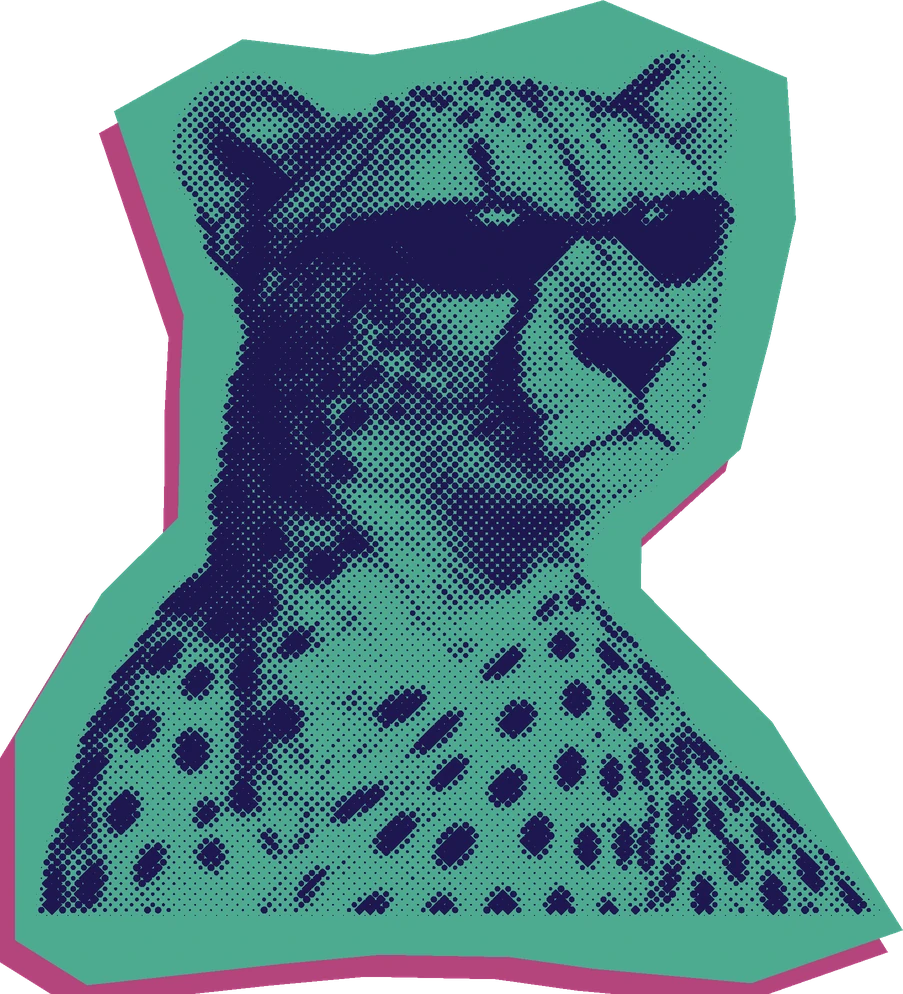
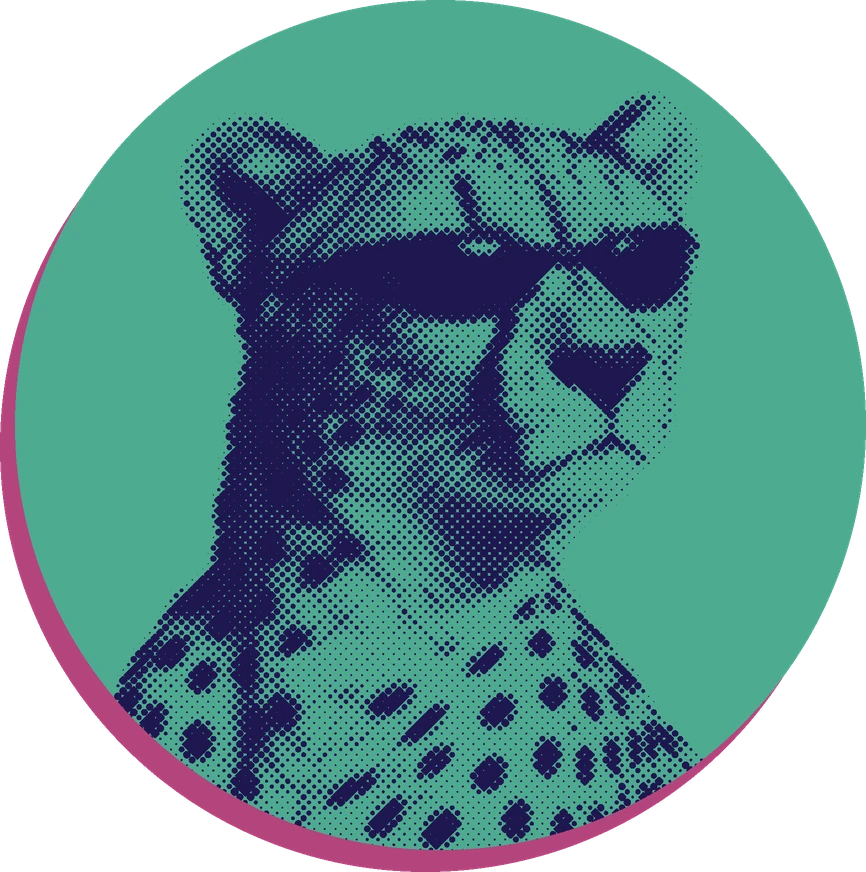
Home: owl and cheetah as busts inside circles
Claude-Session: https://claude.ai/code/session_01MTcdqzHdJmQRiYJx9Qictq

diff --git a/assets/home.css b/assets/home.css
@@ -93,14 +93,14 @@ html.is-home body {
 }
 .obj-owl {
   --dur: 11s; --delay: -3s;
-  right: 9%; top: 4%;
-  width: min(15vw, calc(29 * var(--vh)));
+  right: 7%; top: 6%;
+  width: min(21vw, calc(39 * var(--vh)));
 }
 .obj-cheetah {
   --dur: 10s; --delay: -6s;
   left: 50%; bottom: 12%;
   translate: -50% 0;
-  width: min(24vw, calc(46 * var(--vh)));
+  width: min(21vw, calc(40 * var(--vh)));
 }
 
 /* The four navigation pills */
@@ -126,7 +126,7 @@ html.is-home body {
   left: var(--edge);
   bottom: clamp(16px, 4vh, 44px);
   /* Keep the headline to the left of the middle object. */
-  width: calc(50% - min(12vw, 23vh) - var(--edge) - 2vw);
+  width: calc(50% - min(10.5vw, 20vh) - var(--edge) - 2vw);
   margin: 0;
 }
 
@@ -168,15 +168,15 @@ html.is-home body {
     width: min(56vw, calc(30 * var(--vh)));
   }
   .obj-owl {
-    right: 6%; top: 20%;
-    width: min(30vw, calc(17 * var(--vh)));
+    right: 4%; top: 27%;
+    width: min(38vw, calc(21 * var(--vh)));
     z-index: 2;
   }
   .obj-cheetah {
     /* Bottom 18%, but never down into the headline. */
-    left: 40%;
+    left: 42%;
     bottom: max(18%, calc(var(--statement-clear) + 12px));
-    width: min(50vw, calc(27 * var(--vh)));
+    width: min(44vw, calc(24 * var(--vh)));
   }
 
   .pill-about { left: 6%; top: 40%; }
@@ -194,7 +194,7 @@ html.is-home body {
   .headline { font-size: clamp(18px, 5.4vh, 26px); margin-bottom: 6px; }
   .home-note { font-size: 12px; padding: 5px 10px 6px; }
   .obj-phone { top: 6%; width: min(26vw, calc(44 * var(--vh))); }
-  .obj-owl { width: min(13vw, calc(27 * var(--vh))); }
+  .obj-owl { width: min(19vw, calc(36 * var(--vh))); }
   .obj-cheetah {
     bottom: calc(var(--statement-clear) + 4px);
     width: min(18vw, calc(32 * var(--vh)));

diff --git a/index.html b/index.html
@@ -11,7 +11,7 @@
   <link rel="preconnect" href="https://fonts.gstatic.com" crossorigin>
   <link href="https://fonts.googleapis.com/css2?family=Bricolage+Grotesque:opsz,wght@12..96,400;12..96,500;12..96,700;12..96,800&family=Instrument+Serif:ital@0;1&display=swap" rel="stylesheet">
   <link rel="stylesheet" href="/assets/brand.css?v=aa751892">
-  <link rel="stylesheet" href="/assets/home.css?v=a374580e">
+  <link rel="stylesheet" href="/assets/home.css?v=148a4a84">
 </head>
 <body>
   <a class="skip-link" href="#main">Skip to content</a>
@@ -28,8 +28,8 @@
       <img class="layer hills" src="/images/scene/hills.webp" alt="" width="1920" height="527">
       <div class="layer hills-shimmer" aria-hidden="true"></div>
       <div class="obj obj-phone" data-link="about"><span class="obj-inner"><img src="/images/scene/phone.webp" alt="" width="900" height="777"></span></div>
-      <div class="obj obj-owl" data-link="agents"><span class="obj-inner"><img src="/images/scene/owl.webp?v=2" alt="" width="596" height="971"></span></div>
-      <div class="obj obj-cheetah" data-link="tutorials"><span class="obj-inner"><img src="/images/scene/cheetah.webp?v=2" alt="" width="903" height="994"></span></div>
+      <div class="obj obj-owl" data-link="agents"><span class="obj-inner"><img src="/images/scene/owl.webp?v=3" alt="" width="866" height="872"></span></div>
+      <div class="obj obj-cheetah" data-link="tutorials"><span class="obj-inner"><img src="/images/scene/cheetah.webp?v=3" alt="" width="866" height="872"></span></div>
     </div>
 
     <nav class="poster-nav" aria-label="Main">
